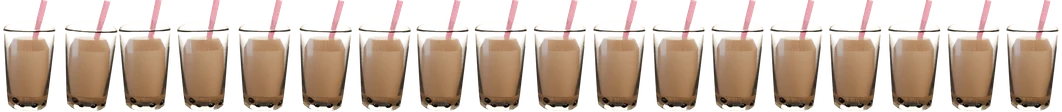
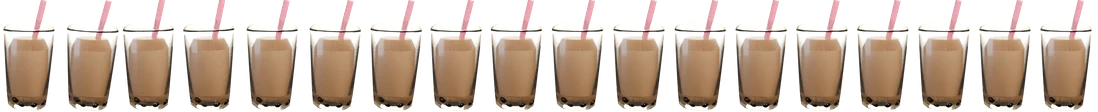
Drinks lean as they brake while sliding
The game still moves each glass from seat to seat; now it plays a short
Blender render of the glass leaning into the stop on the way (mirrored
when it travels right to left) instead of a code spin, then the landing
wobble. Settle and slide strips share one crop so the swap doesn't jump.

Claude-Session: https://claude.ai/code/session_015ZF7TcMpnE4xTLotczsqpL

Changed region(s): [[0.0, 0.0, 1.0, 0.9911]]

diff --git a/apps/web/src/table/sprite3d.tsx b/apps/web/src/table/sprite3d.tsx
@@ -1,6 +1,7 @@
 // Drinks and chips rendered in Blender (scripts/blender: anim.py renders the frames, sprites.py packs
 // them). Each lives in /3d/ as a strip of frames side by side, played with CSS steps(), plus a still of
-// its resting frame. A drink's strip is it rocking to a stop after it lands; a chip's is one full tumble.
+// its resting frame. A drink has two strips: leaning as it brakes while it slides (-slide), then rocking to a
+// stop after it lands; a chip's is one full tumble.
 import type { CSSProperties } from "react";
 import { reducedMotion } from "../prefs";
 
@@ -16,20 +17,20 @@ interface Sheet {
 
 const drink = (id: string, w: number, scale = 1): Sheet => ({ file: `drink-${id}`, frames: 18, w, h: 112, scale });
 const DRINKS: Record<string, Sheet> = {
-  "🏦": drink("vault", 106),
-  "🥃": drink("whiskey", 106),
-  "🍷": drink("wine", 67),
-  "🍸": drink("martini", 87),
-  "🍺": drink("beer", 84),
-  "☕": drink("coffee", 135, 0.75),
-  "🍾": drink("champagne", 42),
-  "🥂": drink("toast", 77),
-  "🍹": drink("maitai", 63),
-  "🍶": drink("sake", 98, 0.9),
-  "🍵": drink("tea", 165, 0.6),
-  "🧋": drink("boba", 59),
-  "🥛": drink("milk", 73),
-  "🧃": drink("juice", 60),
+  "🏦": drink("vault", 109),
+  "🥃": drink("whiskey", 108),
+  "🍷": drink("wine", 70),
+  "🍸": drink("martini", 89),
+  "🍺": drink("beer", 87),
+  "☕": drink("coffee", 134, 0.75),
+  "🍾": drink("champagne", 45),
+  "🥂": drink("toast", 75),
+  "🍹": drink("maitai", 65),
+  "🍶": drink("sake", 92, 0.9),
+  "🍵": drink("tea", 166, 0.6),
+  "🧋": drink("boba", 61),
+  "🥛": drink("milk", 76),
+  "🧃": drink("juice", 62),
 };
 
 const chip = (id: string): Sheet => ({ file: `chip-${id}`, frames: 12, w: 65, h: 64 });
@@ -47,7 +48,7 @@ export const has3dDrink = (emoji: string) => emoji in DRINKS;
 export const has3dChip = (color: string) => color in CHIPS;
 
 /** One sheet at a given height: still, played once (ending on the last frame), or looping. */
-function Sprite({ s, height, mode, className }: { s: Sheet; height: number; mode: "still" | "once" | "loop"; className?: string }) {
+function Sprite({ s, height, mode, className, ms, flip }: { s: Sheet; height: number; mode: "still" | "once" | "loop"; className?: string; ms?: number; flip?: boolean }) {
   height *= s.scale ?? 1;
   const w = (s.w * height) / s.h;
   if (mode === "still" || reducedMotion())
@@ -58,15 +59,24 @@ function Sprite({ s, height, mode, className }: { s: Sheet; height: number; mode
     backgroundImage: `url(/3d/${s.file}.webp)`,
     backgroundSize: `${w * s.frames}px ${height}px`,
     ["--sprite-end" as string]: mode === "once" ? `${-w * (s.frames - 1)}px` : `${-w * s.frames}px`,
-    animation: mode === "once" ? `sprite3d ${s.frames * 45}ms steps(${s.frames - 1}) forwards` : `sprite3d ${s.frames * 40}ms steps(${s.frames}) infinite`,
+    animation: mode === "once" ? `sprite3d ${ms ?? s.frames * 45}ms steps(${s.frames - 1}) forwards` : `sprite3d ${ms ?? s.frames * 40}ms steps(${s.frames}) infinite`,
+    ...(flip ? { transform: "scaleX(-1)" } : {}),
   } as CSSProperties;
   return <span className={"sprite3d " + (className ?? "")} style={style} />;
 }
 
-/** A Blender drink: `settle` plays it rocking to a stop (when it lands), otherwise it stands still. */
-export function Drink3D({ emoji, height, settle = false }: { emoji: string; height: number; settle?: boolean }) {
+/** The lean while sliding: 11 frames, rendered moving left to right (flip it for right to left). */
+const SLIDE_FRAMES = 11;
+
+/**
+ * A Blender drink: `settle` plays it rocking to a stop (when it lands); `slide` plays it leaning as it
+ * brakes over that many ms, mirrored when `flip`; otherwise it stands still.
+ */
+export function Drink3D({ emoji, height, settle = false, slide, flip }: { emoji: string; height: number; settle?: boolean; slide?: number; flip?: boolean }) {
   const s = DRINKS[emoji];
-  return s ? <Sprite s={s} height={height} mode={settle ? "once" : "still"} className="drink3d" /> : null;
+  if (!s) return null;
+  if (slide && !reducedMotion()) return <Sprite s={{ ...s, file: `${s.file}-slide`, frames: SLIDE_FRAMES }} height={height} mode="once" ms={slide} flip={flip} className="drink3d" />;
+  return <Sprite s={s} height={height} mode={settle ? "once" : "still"} className="drink3d" />;
 }
 
 /** A Blender chip tumbling through the air. */

diff --git a/apps/web/src/table/Drinks.tsx b/apps/web/src/table/Drinks.tsx
@@ -82,11 +82,12 @@ export function DrinkLayer({ drinks, slides, pos }: { drinks: Drink[]; slides: S
           <motion.span
             key={sl.key}
             className={"drink sliding" + (isVault(sl.emoji) ? " vault" : "") + (has3dDrink(sl.emoji) ? " d3" : "")}
-            initial={{ x: fx, y: fy, scale: 0.4, rotate: -20, opacity: 0 }}
-            animate={{ x: [fx, (fx + tx) / 2, tx], y: [fy, (fy + ty) / 2 + 30, ty], scale: [0.4, 1.5, 1], rotate: [-20, 8, 0], opacity: 1 }}
+            initial={{ x: fx, y: fy, scale: 0.4, rotate: has3dDrink(sl.emoji) ? 0 : -20, opacity: 0 }}
+            animate={{ x: [fx, (fx + tx) / 2, tx], y: [fy, (fy + ty) / 2 + 30, ty], scale: [0.4, 1.5, 1], rotate: has3dDrink(sl.emoji) ? 0 : [-20, 8, 0], opacity: 1 }}
             transition={{ duration: SLIDE_MS / 1000, ease: [0.2, 0.7, 0.3, 1], times: [0, 0.6, 1] }}
           >
-            {has3dDrink(sl.emoji) ? <Drink3D emoji={sl.emoji} height={46} /> : isVault(sl.emoji) ? <VaultGlass size={46} /> : <Emoji e={sl.emoji} />}
+            {/* a 3D glass leans as it brakes (rendered in Blender) instead of being spun in code */}
+            {has3dDrink(sl.emoji) ? <Drink3D emoji={sl.emoji} height={46} slide={SLIDE_MS} flip={tx < fx} /> : isVault(sl.emoji) ? <VaultGlass size={46} /> : <Emoji e={sl.emoji} />}
           </motion.span>
         );
       })}

diff --git a/scripts/blender/sprites.py b/scripts/blender/sprites.py
@@ -4,26 +4,41 @@ from PIL import Image
 S, OUT, KIND = sys.argv[1], sys.argv[2], sys.argv[3]
 os.makedirs(OUT, exist_ok=True)
 meta = {}
-def strip(frames, h, name):
+
+
+def bbox(frames):
     box = None
     for f in frames:
         b = f.getchannel("A").point(lambda a: 255 if a > 6 else 0).getbbox()
         box = b if box is None else (min(box[0], b[0]), min(box[1], b[1]), max(box[2], b[2]), max(box[3], b[3]))
-    fr = [f.crop(box) for f in frames]
+    return box
+
+
+def strip(frames, h, name, box=None, still=True):
+    fr = [f.crop(box or bbox(frames)) for f in frames]
     w = round(fr[0].width * h / fr[0].height)
     fr = [f.resize((w, h), Image.LANCZOS) for f in fr]
     sheet = Image.new("RGBA", (w * len(fr), h))
     for i, f in enumerate(fr): sheet.paste(f, (i * w, 0))
     sheet.save(f"{OUT}/{name}.webp", quality=88, method=6)
-    fr[-1].save(f"{OUT}/{name}-still.webp", quality=88, method=6)
+    if still: fr[-1].save(f"{OUT}/{name}-still.webp", quality=88, method=6)
     meta[name] = {"frames": len(fr), "w": w, "h": h}
+
+
+def frames(d, keep=lambda n: True):
+    return [Image.open(f).convert("RGBA") for f in sorted(glob.glob(f"{S}/frames/{d}/*.png")) if keep(int(os.path.basename(f)[:4]))]
+
+
 if KIND == "drink":
-    # the settle: from the frame the slide stops (anim.py: 55% of 40) to the end
     for d in sys.argv[4:] or ["vault", "whiskey", "wine", "martini", "beer"]:
-        fs = [f for f in sorted(glob.glob(f"{S}/frames/drink-{d}/*.png")) if int(os.path.basename(f)[:4]) >= 22]
-        strip([Image.open(f).convert("RGBA") for f in fs], 112, f"drink-{d}")
+        # the settle: from the frame the slide stops (anim.py: 55% of 40) to the end
+        settle = frames(f"drink-{d}", lambda n: n >= 22)
+        # the lean while it slides (anim.py --inplace), cropped the same so the swap at landing doesn't jump
+        slide = frames(f"slide-{d}")
+        box = bbox(settle + slide)
+        strip(settle, 112, f"drink-{d}", box)
+        if slide: strip(slide, 112, f"drink-{d}-slide", box, still=False)
 else:
     for c in ["legendary", "red", "blue", "black", "green", "purple"]:
-        fs = sorted(glob.glob(f"{S}/frames/spin-{c}/*.png"))
-        strip([Image.open(f).convert("RGBA") for f in fs], 64, f"chip-{c}")
+        strip(frames(f"spin-{c}"), 64, f"chip-{c}")
 print(json.dumps(meta))

diff --git a/scripts/blender/anim.py b/scripts/blender/anim.py
@@ -348,7 +348,8 @@ else:
             k = f - stop
             x = 0
             lean = math.radians(7) * 0.0 + math.radians(6) * math.exp(-k * 0.3) * math.cos(k * 1.1)
-        root.location = (x, 0, 0); root.rotation_euler = (0, lean, x * 0.15)
+        # --inplace: the lean and turn without the travel, for the game to move the glass itself
+        root.location = (0 if "--inplace" in sys.argv else x, 0, 0); root.rotation_euler = (0, lean, x * 0.15)
         if which == "vault":
             w_ = bpy.data.objects["wheel"]; w_.rotation_euler = (0, 0, -x * 0.9 + (f > stop) * 0); w_.keyframe_insert("rotation_euler", frame=f)
         key(root, f)
@@ -358,7 +359,7 @@ else:
     light((-1, 5, 3), 900, 4, (1, 0.8, 0.5), (0, 0, 1))
     sc.render.resolution_x = int(SIZE * 1.6); sc.render.resolution_y = SIZE
 
-frames = [int(ONLY)] if ONLY else range(int(arg("--start", 0)), N)
+frames = [int(ONLY)] if ONLY else range(int(arg("--start", 0)), int(arg("--end", N)), int(arg("--step", 1)))
 for f in frames:
     sc.frame_set(f)
     sc.render.filepath = f"{OUT}/{f:04d}.png"
